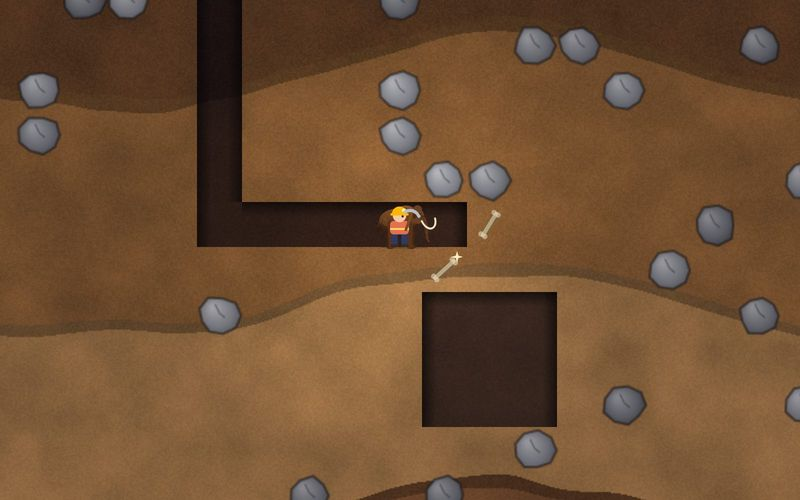
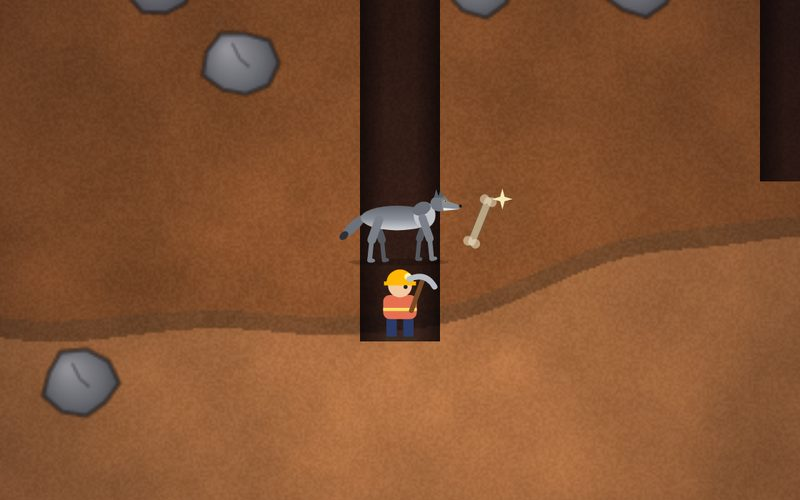
Fossil Zoo v0.6.3 fra artefakten (1793477824-c8f9) med nettstedslag; nytt skjermbilde på forsiden
Testet: lagring fra v0.4 og v0.6, nivåvelger, graving med tastatur og berøring, Avslutt spør først, GoatCounter, 0 CSP-brudd, 0 konsollfeil på PC, mobil, liggende og nettbrett.

Claude-Session: https://claude.ai/code/session_01MHiEAzBznnujooqyTbQ68h

diff --git a/spill/fossilspillet/index.html b/spill/fossilspillet/index.html
@@ -6,10 +6,16 @@
 <meta http-equiv="Content-Security-Policy" content="default-src 'self'; script-src 'self' 'unsafe-inline' https://gc.zgo.at; style-src 'self' 'unsafe-inline'; font-src 'self'; img-src 'self' data: blob: https://evnstudio.goatcounter.com; connect-src 'self' https://evnstudio.goatcounter.com; media-src 'self' data: blob:; worker-src 'self'; manifest-src 'self'; object-src 'none'; base-uri 'self'; form-action 'none'; upgrade-insecure-requests">
 <meta name="referrer" content="strict-origin-when-cross-origin">
 <!-- EVN-SIKKERHET slutt -->
-<meta name="viewport" content="width=device-width,initial-scale=1,user-scalable=no">
-<title>Fossil Zoo v0.6 – EVN Studio</title>
+<meta name="viewport" content="width=device-width,initial-scale=1,maximum-scale=1,user-scalable=no">
+<title>Fossil Zoo v0.6.3 – EVN Studio</title>
 <style>
-*{box-sizing:border-box;margin:0;padding:0}
+*{box-sizing:border-box;margin:0;padding:0;touch-action:manipulation}
+#cv,#pad button,#mini{touch-action:none}
+#mini{position:fixed;right:8px;opacity:.9;transition:opacity .2s;top:62px;width:90px;height:240px;border-radius:8px;box-shadow:0 0 0 3px rgba(0,0,0,.55),0 4px 10px rgba(0,0,0,.4);z-index:2;cursor:pointer;image-rendering:pixelated;background:#000}
+#mini.big{width:150px;height:400px}
+#hud .btn{padding:8px 12px;font-size:15px}
+#hud .pill{font-size:14px;padding:6px 10px}
+
 html,body{height:100%;overflow:hidden;background:#120a06;font-family:system-ui,"Segoe UI",Roboto,sans-serif;color:#fff;touch-action:none;user-select:none;-webkit-user-select:none}
 #cv{display:block;width:100vw;height:100vh}
 #hud{position:fixed;top:8px;left:8px;right:8px;display:flex;gap:6px;flex-wrap:wrap;align-items:center;pointer-events:none;z-index:2}
@@ -64,12 +70,13 @@ html,body{height:100%;overflow:hidden;background:#120a06;font-family:system-ui,"
 .card h3{font-size:21px}
 .card .ab{font-size:15px;min-height:38px}
 .card .med{font-weight:800;color:#2f8a2f}
-#pad{position:fixed;bottom:16px;right:16px;display:none;grid-template-columns:repeat(3,64px);grid-template-rows:repeat(2,64px);gap:6px;z-index:2}
+#pad{position:fixed;bottom:calc(14px + env(safe-area-inset-bottom,0px));right:12px;display:none;grid-template-columns:repeat(3,74px);grid-template-rows:repeat(2,74px);gap:6px;z-index:2;opacity:.85}
 #pad.show{display:grid}
-#pad button{font-size:28px;border-radius:16px;border:none;background:rgba(255,255,255,.7);color:#2b1700;touch-action:none}
+#pad button{font-size:34px;border-radius:16px;border:none;background:rgba(255,255,255,.7);color:#2b1700;touch-action:none}
 #pad button:active{background:#ffb703}
-#fakta{position:fixed;left:50%;bottom:64px;transform:translate(-50%,20px);width:min(600px,92vw);background:rgba(255,248,228,.97);color:#3b2200;border-radius:16px;padding:12px 40px 12px 16px;box-shadow:0 6px 0 rgba(0,0,0,.25);z-index:4;opacity:0;pointer-events:none;transition:opacity .3s,transform .3s}
+#fakta{position:fixed;left:50%;top:70px;transform:translate(-50%,-14px);cursor:pointer;width:min(600px,92vw);background:rgba(255,248,228,.97);color:#3b2200;border-radius:16px;padding:12px 40px 12px 16px;box-shadow:0 6px 0 rgba(0,0,0,.25);z-index:4;opacity:0;pointer-events:none;transition:opacity .3s,transform .3s}
 #fakta.show{opacity:1;transform:translate(-50%,0);pointer-events:auto}
+
 #fakta b{display:block;font-size:17px;margin-bottom:4px}
 #fakta span{font-size:16px;line-height:1.4}
 #fakta button{position:absolute;top:8px;right:8px;border:none;background:none;font-size:20px;cursor:pointer;color:#3b2200}
@@ -84,6 +91,19 @@ html,body{height:100%;overflow:hidden;background:#120a06;font-family:system-ui,"
 .card ul.clues li{background:#fff4cf;border-radius:8px;padding:5px 8px;margin:4px 0}
 .card .gjett{font-weight:800;color:#8a4a00}
 #help{position:fixed;bottom:12px;left:12px;font-size:14px;background:rgba(0,0,0,.55);padding:6px 10px;border-radius:10px;pointer-events:none;z-index:2;max-width:60vw}
+@media (max-width:640px){
+  #hud{gap:4px;top:6px;left:6px;right:6px}
+  #hud .pill{font-size:12px;padding:4px 8px}
+  #hud .btn{font-size:13px;padding:6px 9px}
+  #mini{width:60px;height:160px}
+  #mini.big{width:120px;height:320px}
+  #fakta{left:6px;right:74px;width:auto;transform:translate(0,-14px);padding:8px 30px 8px 10px}
+  #fakta.show{transform:translate(0,0)}
+  #fakta b{font-size:14px}
+  #fakta span{font-size:13px}
+  #help{font-size:12px;max-width:calc(100vw - 240px)}
+  #hud .lvlpill{display:none}
+}
 </style>
 </head>
 <body>
@@ -99,9 +119,10 @@ html,body{height:100%;overflow:hidden;background:#120a06;font-family:system-ui,"
   <a class="btn gray" id="evnAvslutt" href="../../" style="display:none;pointer-events:auto;text-decoration:none">✕ Avslutt</a>
 </div>
 <div id="msg"></div>
+<canvas id="mini" width="90" height="240" title="Kart – trykk for større"></canvas>
 <div id="fade"></div>
 <div id="fakta"><b id="fTitle"></b><span id="fText"></span><button id="fClose" aria-label="Lukk">✕</button></div>
-<div id="help">Piltaster/WASD: gå og grav • Hold en pil inntil en vegg for å klatre</div>
+<div id="help">Piltaster/WASD: gå og grav • Graveren holder seg fast i veggene • Pil ned for å slippe</div>
 <div id="pad">
   <span></span><button data-d="up">⬆</button><span></span>
   <button data-d="left">⬅</button><button data-d="down">⬇</button><button data-d="right">➡</button>
@@ -112,7 +133,7 @@ html,body{height:100%;overflow:hidden;background:#120a06;font-family:system-ui,"
   <h1>⛏ Fossil Zoo</h1>
   <p>Reis gjennom jordas tre store tidsepoker og let etter fossiler! 🦴<br>Når du har funnet hele skjelettet til et dyr, blir det <b>levende</b> og flytter inn i dyreparken din.<br><br>⌨ Piltaster eller WASD: gå og grav<br>🧗 Hold pil opp inntil en vegg for å klatre<br>✨ Glitrende stein gjemmer et fossil!<br>⏳ Jo dypere du graver, jo lenger tilbake i tiden kommer du!</p>
   <button class="btn bigbtn" id="startBtn">Start!</button>
-  <div class="ver">Versjon 0.6 • 3 tidsepoker • 13 dyr å vekke</div>
+  <div class="ver">Versjon 0.6.3 • 3 tidsepoker • 13 dyr å vekke</div>
 </div>
 
 <div class="overlay" id="celebrate">
@@ -155,7 +176,7 @@ const EMPTY=0, DIRT=1, STONE=2, HARD=3, BED=4, SKYT=5;
 const HARDNESS = {1:1, 2:3, 3:5};   // hvor mange slag hver steintype tåler
 const SAVE_KEY = 'evn-fossilspillet-v04', OLD_KEYS = ['evn-fossilspillet-v05','evn-fossilspillet-v03']; // nøkkelen v04 skal aldri endres
 const TEX = 36;                // oppløsning på fjell-teksturen per rute
-const FALL_FIRST = 120, FALL_FAST = 55, CLIMB_CD = 230;
+const FALL_FIRST = 120, FALL_FAST = 55, CLIMB_CD = 180;
 
 const ANIMALS = [
   { id:'ulv', navn:'Ulven', kort:'ulven', kraft:'snus', box:[-0.95,0.88,1.05], plass:'land', str:0.55,
@@ -328,11 +349,14 @@ function profilHTML(ai){ const L=LAER[ANIMALS[ai].id];
   return `<dl class="profil"><dt>⏳ Levde</dt><dd>${esc(L.levde)}</dd><dt>🌍 Hvor</dt><dd>${esc(L.hvor)}</dd><dt>📏 Størrelse</dt><dd>${esc(L.str)}</dd><dt>🍽 Mat</dt><dd>${esc(L.mat)}</dd></dl>`; }
 
 // faktaboks nederst på skjermen
-let factTimer=null;
+let factTimer=null, factShownAt=0;
+// faktaboksen forsvinner når man graver videre etter litt
+function autoHideFact(){ const b=document.getElementById('fakta'); if(b.classList.contains('show') && performance.now()-factShownAt>3500) b.classList.remove('show'); }
 function showFact(title,text,ms=10000){
   const b=document.getElementById('fakta');
   document.getElementById('fTitle').textContent=title; document.getElementById('fText').textContent=text;
-  b.classList.add('show'); clearTimeout(factTimer); factTimer=setTimeout(()=>b.classList.remove('show'),ms);
+  b.style.top=(document.getElementById('hud').offsetHeight+14)+'px';
+  b.classList.add('show'); factShownAt=performance.now(); clearTimeout(factTimer); factTimer=setTimeout(()=>b.classList.remove('show'),ms);
 }
 
 function hasPower(k){ return helper>=0 && ANIMALS[helper].kraft===k; }
@@ -367,7 +391,9 @@ const cv = document.getElementById('cv'), ctx = cv.getContext('2d');
 // =====================================================
 //  LAG FJELLET
 // =====================================================
+let seenZones={};
 function freshGame(){
+  seenZones={};
   found = ANIMALS.map(a=>a.deler.map(()=>false));
   alive = ANIMALS.map(()=>false);
   helper = -1; worlds = {}; unlocked = [true,false,false]; lvl = 0;
@@ -509,7 +535,7 @@ function buildTextures(){
 function save(){
   try{
     storeWorld();
-    localStorage.setItem(SAVE_KEY, JSON.stringify({v:5,lvl,unlocked,worlds,found,alive,helper}));
+    localStorage.setItem(SAVE_KEY, JSON.stringify({v:5,lvl,unlocked,worlds,found,alive,helper,seenZones}));
   }catch(e){}
 }
 function validProgress(f){ return Array.isArray(f) && f.length===ANIMALS.length && f.every((x,i)=>Array.isArray(x)&&x.length===ANIMALS[i].deler.length); }
@@ -520,7 +546,8 @@ function load(){
       const s=readSave(k); if(!s) continue;
       // nytt format (v0.6+): flere verdener
       if(s.worlds && validProgress(s.found)){
-        found=s.found; alive=s.alive; helper=s.helper; worlds=s.worlds; unlocked=s.unlocked||[true,false,false]; lvl=s.lvl||0;
+        found=s.found; alive=s.alive; worlds=s.worlds; unlocked=s.unlocked||[true,false,false]; lvl=s.lvl||0; seenZones=s.seenZones||{};
+        helper=(Number.isInteger(s.helper)&&s.helper>=0&&s.helper<ANIMALS.length&&alive[s.helper])?s.helper:-1;
         if(worlds[lvl] && worlds[lvl].g && worlds[lvl].g.length===W*H) loadWorld(worlds[lvl]); else newWorld(lvl);
         if(k!==SAVE_KEY) save();
         return true;
@@ -1089,18 +1116,19 @@ function drawAnimal(c,ai,x,y,s,phase=0,flip=false){
 //  GRAVING, GÅING, KLATRING OG FALL
 // =====================================================
 function hintRadius(){ return hasPower('ekko') ? 9 : hasPower('snus') ? 5 : hasPower('syn') ? 3 : 2; }
-function moveCd(){ return hasPower('fart') ? 75 : 140; }
+function moveCd(){ return hasPower('fart') ? 75 : 120; }
 function solidAt(x,y){ if(x<0||x>=W||y>=H) return true; if(y<0) return false; const t=grid[idx(x,y)]; return t!==EMPTY && t!==SKYT; }
 function supported(){ return hasPower('fly') || solidAt(px,py+1); }
 function canCling(){ return py>SKY && (solidAt(px-1,py)||solidAt(px+1,py)||solidAt(px-1,py-1)||solidAt(px+1,py-1)); }
-// graveren henger på veggen så lenge en piltast (ikke ned) holdes inne
-function climbing(){ return !supported() && heldDir!==null && heldDir!=='down' && canCling(); }
+// graveren holder seg fast i veggen av seg selv; pil ned slipper taket
+function climbing(){ return !supported() && heldDir!=='down' && canCling(); }
 
 function moveTo(nx,ny){ trail.unshift({x:px,y:py}); if(trail.length>4) trail.pop(); px=nx; py=ny; dirty=true; if(helper>=0) helperPhase+=1.2; }
 
 const DIRS={left:[-1,0],right:[1,0],up:[0,-1],down:[0,1]};
 let lastBonk=0, lastClimbMsg=0;
 function act(dir){
+  autoHideFact();
   const [dx,dy]=DIRS[dir];
   if(dx) face=dx;
   const nx=px+dx, ny=py+dy;
@@ -1324,10 +1352,10 @@ function updateHUD(){
   const box=document.getElementById('pAnimals'); box.innerHTML='';
   const ids=ANIMALS.map((a,i)=>i).filter(i=>ANIMALS[i].niva===lvl);
   const nf=ids.reduce((n,i)=>n+found[i].filter(Boolean).length,0), tot=ids.reduce((n,i)=>n+found[i].length,0), na=ids.filter(i=>alive[i]).length;
-  const s0=document.createElement('span'); s0.className='pill'; s0.textContent=`${LEVELS[lvl].ikon} ${LEVELS[lvl].fag}`; box.appendChild(s0);
+  const s0=document.createElement('span'); s0.className='pill lvlpill'; s0.textContent=`${LEVELS[lvl].ikon} ${LEVELS[lvl].fag}`; box.appendChild(s0);
   const s1=document.createElement('span'); s1.className='pill'; s1.textContent=`🦴 ${nf}/${tot}`; box.appendChild(s1);
   const s2=document.createElement('span'); s2.className='pill'+(na===ids.length?' done':''); s2.textContent=`🐾 ${na}/${ids.length} dyr`; box.appendChild(s2);
-  document.getElementById('pHelper').textContent = 'Hjelper: ' + (helper>=0 ? ANIMALS[helper].navn : 'ingen');
+  const ph=document.getElementById('pHelper'); ph.textContent = 'Hjelper: ' + (helper>=0 ? ANIMALS[helper].navn : 'ingen'); ph.style.display = helper>=0 ? '' : 'none';
 }
 
 // =====================================================
@@ -1450,6 +1478,10 @@ function draw(now){
   if(helper>=0){ const a=ANIMALS[helper], s=Math.min(T*0.95/a.box[2], T*2.4/(a.box[1]-a.box[0]));
     drawAnimal(ctx,helper,hx*T+T/2-camX,hy*T+T-camY,s,helperPhase,(px-hx)<-0.05); }
   drawPlayer(pdx*T-camX,pdy*T-camY,now);
+  if(joy.active && joy.moved){ const dx=joy.x-joy.sx, dy=joy.y-joy.sy, L=Math.hypot(dx,dy), k=L>JOY_R?JOY_R/L:1;
+    ctx.fillStyle='rgba(255,255,255,.15)'; ctx.strokeStyle='rgba(255,255,255,.5)'; ctx.lineWidth=3;
+    ctx.beginPath(); ctx.arc(joy.sx,joy.sy,JOY_R,0,7); ctx.fill(); ctx.stroke();
+    ctx.fillStyle='rgba(255,183,3,.75)'; ctx.beginPath(); ctx.arc(joy.sx+dx*k,joy.sy+dy*k,24,0,7); ctx.fill(); }
   if(hasPower('kompass')){ let best=null, bd=1e9;
     for(const k in fossils){ const fx=k%W, fy=Math.floor(k/W), d=(fx-px)**2+(fy-py)**2; if(d<bd){ bd=d; best=[fx,fy]; } }
     if(best && bd>2){ const a=Math.atan2(best[1]-py,best[0]-px), cx=pdx*T+T/2-camX, cy=pdy*T+T/2-camY;
@@ -1470,6 +1502,33 @@ function draw(now){
     ctx.globalAlpha=1;
   });
 }
+
+// =====================================================
+//  KART (minikart i hjørnet)
+// =====================================================
+const mini=document.getElementById('mini'), mctx=mini.getContext('2d');
+mini.addEventListener('click',()=>mini.classList.toggle('big'));
+function drawMini(now){
+  const top=(document.getElementById('hud').offsetHeight+16)+'px'; if(mini.style.top!==top) mini.style.top=top;
+  // flytt kartet til motsatt side hvis graveren er bak det
+  const [cX]=camera(), plx=pdx*T+T/2-cX, mw=mini.getBoundingClientRect().width+30;
+  if(miniSide==='right' && plx>innerWidth-mw){ miniSide='left'; mini.style.left='8px'; mini.style.right='auto'; }
+  else if(miniSide==='left' && plx<mw){ miniSide='right'; mini.style.right='8px'; mini.style.left='auto'; }
+  const sx=mini.width/W, sy=mini.height/H, Z=zones(), tn=LEVELS[lvl].tint;
+  mctx.fillStyle=LEVELS[lvl].himmel[0]; mctx.fillRect(0,0,mini.width,(SKY+1)*sy);
+  Z.forEach((z,i)=>{ const y0=(z.fra+SKY+1)*sy, y1=(i+1<Z.length?Z[i+1].fra+SKY+1:H)*sy, k=i%2?0.82:1;
+    mctx.fillStyle=`rgb(${150*k*tn[0]|0},${105*k*tn[1]|0},${70*k*tn[2]|0})`; mctx.fillRect(0,y0,mini.width,y1-y0);
+    mctx.fillStyle='rgba(0,0,0,.5)'; mctx.fillRect(0,y0,mini.width,1);
+    mctx.font='11px sans-serif'; mctx.textBaseline='top'; mctx.globalAlpha=0.85; mctx.fillText(z.ikon,2,y0+2); mctx.globalAlpha=1; });
+  mctx.fillStyle='#5aa33f'; mctx.fillRect(0,(SKY+1)*sy,mini.width,2);
+  mctx.fillStyle='#1a0f08';
+  for(let y=SKY+1;y<H;y++) for(let x=0;x<W;x++) if(grid[idx(x,y)]===EMPTY) mctx.fillRect(x*sx,y*sy,Math.ceil(sx),Math.ceil(sy));
+  mctx.fillStyle='#17161d'; mctx.fillRect(0,(SKY+1)*sy,sx,mini.height); mctx.fillRect(mini.width-sx,(SKY+1)*sy,sx,mini.height); mctx.fillRect(0,mini.height-sy,mini.width,sy);
+  const on=Math.floor(now/350)%2===0, cx=(px+0.5)*sx, cy=(py+0.5)*sy;
+  mctx.fillStyle='rgba(255,60,40,.35)'; mctx.beginPath(); mctx.arc(cx,cy,7,0,7); mctx.fill();
+  mctx.fillStyle=on?'#ff3b2f':'#ffe14a'; mctx.strokeStyle='#fff'; mctx.lineWidth=1.5; mctx.beginPath(); mctx.arc(cx,cy,3.5,0,7); mctx.fill(); mctx.stroke();
+}
+let miniT=0, miniSide='right';
 
 // =====================================================
 //  SPILL-LØKKEN
@@ -1493,10 +1552,11 @@ function loop(now){
   saveTimer+=dt; if(dirty&&saveTimer>2){ save(); dirty=false; saveTimer=0; }
   const dm=Math.max(0,py-SKY), zi=zoneAt(dm);
   const Z=zones();
-  if(zi!==curZone){ if(curZone>=0 && zi>curZone) showFact(`${Z[zi].ikon} Du har gravd deg ned til ${Z[zi].navn}!`, Z[zi].tekst, 9000); curZone=zi; }
+  if(zi!==curZone){ if(curZone>=0 && zi>curZone && !seenZones[lvl+'-'+zi]){ seenZones[lvl+'-'+zi]=true; dirty=true; showFact(`${Z[zi].ikon} Du har gravd deg ned til ${Z[zi].navn}!`, Z[zi].tekst, 8000); } curZone=zi; }
   const dTxt=`📏 ${dm} m · ${Z[zi].ikon} ${Z[zi].navn}`; const pd=document.getElementById('pDepth'); if(pd.textContent!==dTxt) pd.textContent=dTxt;
   const rb=document.getElementById('ropeBtn'), showR=dm>=3; if((rb.style.display!=='none')!==showR) rb.style.display=showR?'inline-block':'none';
   draw(now);
+  miniT-=dt; if(miniT<=0){ miniT=0.2; drawMini(now); }
   requestAnimationFrame(loop);
 }
 
@@ -1524,22 +1584,51 @@ function dirToward(clientX,clientY){
   return Math.abs(dx)>=Math.abs(dy) ? (dx>0?'right':'left') : (dy>0?'down':'up');
 }
 let pointerDown=false;
+// Berøring: dra fingeren som en joystick fra der du trykket. Kort trykk = grav/gå mot ruta du trykket på.
+const joy={active:false,id:null,sx:0,sy:0,x:0,y:0,moved:false};
+const JOY_DEAD=16, JOY_R=55;
+function joyDir(){ const dx=joy.x-joy.sx, dy=joy.y-joy.sy; if(Math.hypot(dx,dy)<JOY_DEAD) return null;
+  return Math.abs(dx)>=Math.abs(dy) ? (dx>0?'right':'left') : (dy>0?'down':'up'); }
 cv.addEventListener('pointerdown',e=>{
-  if(paused) return; pointerDown=true;
+  if(paused) return;
+  if(e.pointerType==='touch'){
+    if(joy.active) return;
+    Object.assign(joy,{active:true,id:e.pointerId,sx:e.clientX,sy:e.clientY,x:e.clientX,y:e.clientY,moved:false}); return;
+  }
+  pointerDown=true;
   const d=dirToward(e.clientX,e.clientY); heldDir=d; if(d&&cooldown<=0) act(d);
 });
-cv.addEventListener('pointermove',e=>{ if(pointerDown&&!paused) heldDir=dirToward(e.clientX,e.clientY); });
-addEventListener('pointerup',()=>{ if(pointerDown){ pointerDown=false; heldDir=null; } });
-addEventListener('pointercancel',()=>{ pointerDown=false; heldDir=null; });
+cv.addEventListener('pointermove',e=>{
+  if(joy.active && e.pointerId===joy.id){ joy.x=e.clientX; joy.y=e.clientY; const d=joyDir(); if(d){ joy.moved=true; if(d!==heldDir){ heldDir=d; if(cooldown<=0) act(d); } } else if(joy.moved) heldDir=null; return; }
+  if(pointerDown&&!paused) heldDir=dirToward(e.clientX,e.clientY);
+});
+function joyEnd(e){
+  if(joy.active && e.pointerId===joy.id){
+    if(!joy.moved && !paused){ const d=dirToward(joy.sx,joy.sy); if(d && cooldown<=0) act(d); }
+    joy.active=false; heldDir=null; return;
+  }
+  if(pointerDown){ pointerDown=false; heldDir=null; }
+}
+addEventListener('pointerup',joyEnd);
+addEventListener('pointercancel',e=>{ joy.active=false; pointerDown=false; heldDir=null; });
 
 document.querySelectorAll('#pad button').forEach(b=>{
   b.addEventListener('pointerdown',e=>{ e.preventDefault(); if(paused) return; heldDir=b.dataset.d; if(cooldown<=0) act(heldDir); });
   b.addEventListener('pointerup',()=>heldDir=null);
   b.addEventListener('pointerleave',()=>heldDir=null);
 });
-if('ontouchstart' in window || navigator.maxTouchPoints>0){ document.getElementById('pad').classList.add('show'); document.getElementById('help').textContent='Trykk der du vil gå og grave • Hold en pil inntil en vegg for å klatre'; }
+if('ontouchstart' in window || navigator.maxTouchPoints>0){ document.getElementById('pad').classList.add('show'); document.getElementById('help').textContent='Dra fingeren for å gå og grave • Trykk på en stein for å hakke'; }
 
-document.getElementById('fClose').onclick=()=>document.getElementById('fakta').classList.remove('show');
+document.getElementById('fakta').onclick=()=>document.getElementById('fakta').classList.remove('show');
+setTimeout(()=>{ const h=document.getElementById('help'); if('ontouchstart' in window || navigator.maxTouchPoints>0) h.style.display='none'; },15000);
+// ingen zoom ved dobbeltklikk, knip eller Ctrl+hjul
+document.addEventListener('dblclick',e=>e.preventDefault(),{passive:false});
+['gesturestart','gesturechange','gestureend'].forEach(t=>document.addEventListener(t,e=>e.preventDefault(),{passive:false}));
+let lastTouchEnd=0;
+document.addEventListener('touchend',e=>{ const n=Date.now(); if(n-lastTouchEnd<350 && !e.target.closest('button,a,summary,input')) e.preventDefault(); lastTouchEnd=n; },{passive:false});
+document.addEventListener('touchmove',e=>{ if(e.touches.length>1) e.preventDefault(); },{passive:false});
+document.addEventListener('wheel',e=>{ if(e.ctrlKey) e.preventDefault(); },{passive:false});
+addEventListener('keydown',e=>{ if((e.ctrlKey||e.metaKey) && ['+','-','=','0'].includes(e.key)) e.preventDefault(); });
 document.getElementById('startBtn').onclick=()=>{ sound('find'); openLevels(); };
 document.getElementById('lvlBtn').onclick=()=>openLevels();
 document.getElementById('parkBtn').onclick=()=>openPark();

diff --git a/index.html b/index.html
@@ -286,7 +286,7 @@
 
       <a class="spillkort" href="spill/fossilspillet/">
         <div class="bilde">
-          <img src="bilder/fossilspillet.jpg" alt="Skjermbilde fra Fossil Zoo: graveren i en tunnel med mammuten som hjelper og glitrende fossiler i jorda">
+          <img src="bilder/fossilspillet.jpg" alt="Skjermbilde fra Fossil Zoo: graveren i en tunnel med ulven som hjelper og et glitrende fossilbein i jorda">
           <span class="merke klar">Nytt</span>
           <span class="avspill" aria-hidden="true"></span>
         </div>

diff --git a/ENDRINGSLOGG.md b/ENDRINGSLOGG.md
@@ -6,6 +6,7 @@ er små – se på retning over flere uker, ikke på enkeltdager.
 
 | Dato | Hva | Spill | Kan påvirke |
 |---|---|---|---|
+| 2026-10-31 (FOSSILTID) | **Fossil Zoo v0.6 → v0.6.3** fra Fossil-samtalen, uendret bortsett fra nettstedslaget. Nytt: graveren holder seg fast i veggene, minikart, faktaboksen vises bare første gang, joystick på mobil, større pilknapper og litt raskere gange. Lagringer fra v0.4 og v0.6 er testet og beholdes. Nytt skjermbilde av Fossil Zoo på forsiden. | Fossil Zoo, forside | Lengre spilletid i Fossil Zoo (styringen på mobil) |
 | 2026-10-31 ca. 22:14 | **Ny forside (variant B, valgt av Ivar og Even).** Hovedbanneret er fjernet, og «Velg et spill» med tre likeverdige spillkort står øverst. Kortene har store skjermbilder, korte beskrivelser, to kategorier med ikon og «Spill nå»-knapper på minst 52 px. Merkene 2D/3D og play-ikonet er fjernet. Forsiden er 313 kB. Commit 2fe02ea. | Forside | Flere starter av Mørkeskogen og Fossil Zoo enn før, siden alle tre er like synlige |
 | 2026-10-31 ca. 21:53 | **Kvalitet fase A, del 1.** Om-teksten sier nå «Even, 9 år, og pappaen hans». Nyhetene er oppdatert til dagens spillnavn og innhold. «Spill som app» stemmer for hvert spill. Personvernavsnittet i Om er kortet ned til en lenke. Spillkortene har fått riktig tilgjengelig navn (WCAG 2.5.3). Bildene er gjort mindre: forsiden er 421 kB på mobil, mot 601 kB før. Era Defenders v0.18.1 tillater zoom (WCAG 1.4.4): knip på menyene zoomer, mens spillflaten er uendret. Spillkortenes oppsett er ikke endret, det venter på at Even godkjenner det. Commit f5d9e7b. | Forside, Era Defenders | Ingen forventet effekt på spillstarter |
 | 2026-10-31 ca. 19:46 | **Sikkerhet fase 2–3.** three.js r128 og skrifter (Rubik, Nunito, Lilita One) ligger nå på evnstudio.no i stedet for cdnjs og Google Fonts. Innholdspolicy (CSP) og referrer-policy på alle sider. Nye sider: /sikkerhet/, /personvern/ og /.well-known/security.txt, med lenker i bunnteksten. Spillmekanikk, lagring og statistikk er uendret. Commit c8b1b00. | Alle | Ingen forventet effekt. Ellers kan det tyde på at CSP blokkerer statistikken. |
